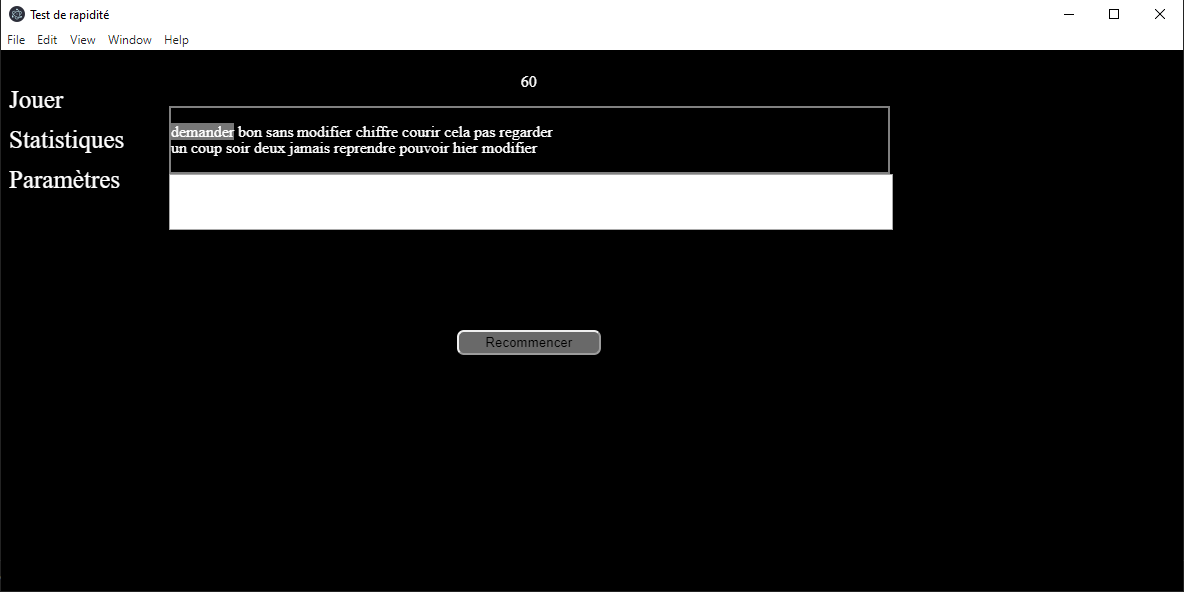
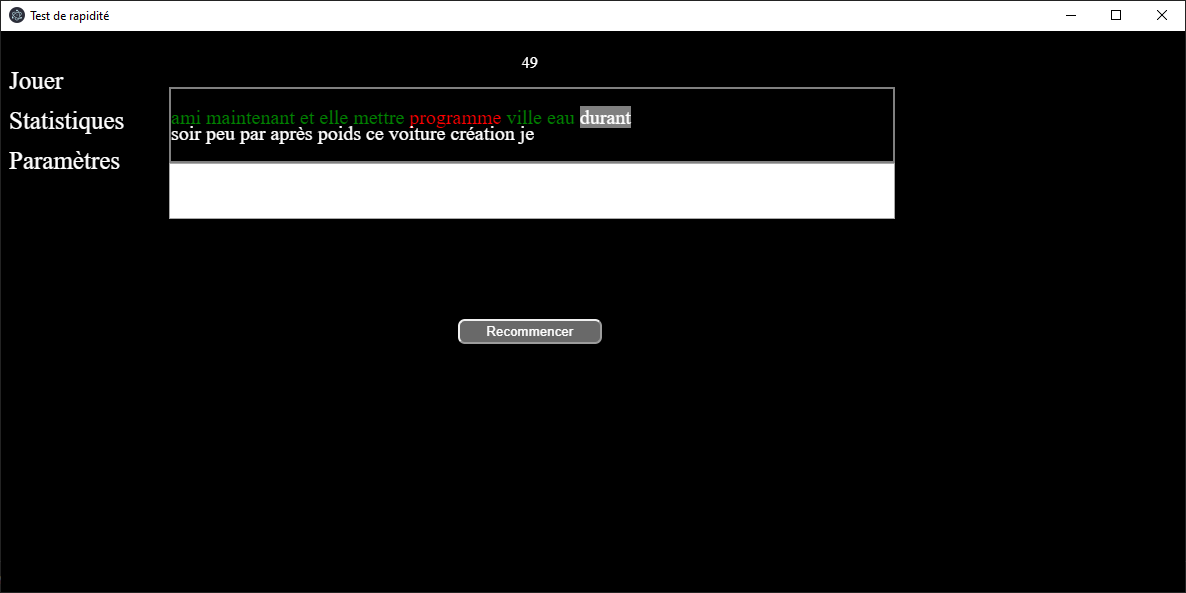
modification du code

Changed region(s): [[0.0, 0.0, 1.0, 1.0], [0.1248, 0.3642, 0.7487, 0.3946], [0.3744, 0.516, 0.5304, 0.6071]]

diff --git a/js/stats.js b/js/stats.js
@@ -28,7 +28,7 @@ if (fs.existsSync(dir)) {
                 var donnees = data.trim();
                 result = donnees.split('\n');
 
-                // revue de code necessaire
+                // à revoir 
                 for (i=0; i < result.length; i++) {
                     if (i == result.length-1) {
                         date += result[i].split(',')[0];
@@ -38,6 +38,7 @@ if (fs.existsSync(dir)) {
                     }
                 }
                 
+                // a revoir
                 for (j=0; j < result.length; j++) {
                     if (j == result.length -1) {
                         monMpm += result[j].split(',')[1];
@@ -55,24 +56,17 @@ if (fs.existsSync(dir)) {
             }
         });
     }
-    else {
-        alert('aucun fichier trouvé'); // a supprimer  (test)
-    }
-}
-else {
-    alert('aucun dossier typingtest trouvé'); // a supprimer (test)
 }
 
-//console.log(localStorage.getItem("monLabel"));
-var montest = localStorage.getItem("monLabel");
+var courbeLabels = localStorage.getItem("monLabel");
 
 var timeFormat = 'DD/MM/YYYY HH:mm';
 
-var testSplit = montest.split(',');
+var mesLabels = courbeLabels.split(',');
 
-var blabla = localStorage.getItem('mesDatas');
+var courbeDatas = localStorage.getItem('mesDatas');
 
-var testSplitMpm = blabla.split(',');
+var mesDatas = courbeDatas.split(',');
 
 
 // affichage de la courbe
@@ -82,8 +76,8 @@ var config = {
         labels: [],
         datasets: [{
             label: 'MPM',
-            backgroundColor: 'rgb(255,99,132)',
-            borderColor: 'rgb(255, 99, 132)',
+            backgroundColor: 'rgb(0, 102, 255)',
+            borderColor: 'rgb(0, 102, 255)',
             fill: false,
             data: [],
         }]
@@ -133,13 +127,14 @@ var config = {
 var ctx = document.getElementById('myChart').getContext('2d');
 var myLineChart = new Chart(ctx, config);
 
-for (i=0; i < testSplit.length; i++) {
-    config.data.labels.push(testSplit[i]);
+// ajout des labels
+for (i=0; i < mesLabels.length; i++) {
+    config.data.labels.push(mesLabels[i]);
 }
 myLineChart.update();
 
-// ajouter un mpm
-for (j=0; j < testSplitMpm.length; j++) {
-    config.data.datasets[0].data.push(testSplitMpm[j]);
+// ajout des mpm
+for (j=0; j < mesDatas.length; j++) {
+    config.data.datasets[0].data.push(mesDatas[j]);
 }
 myLineChart.update();

diff --git a/css/style.css b/css/style.css
@@ -16,7 +16,6 @@
 }
 
 body {
-    /*background-color: black;*/
     background-color: var(--couleur-back);
 }
 
@@ -27,7 +26,6 @@ body {
     z-index: 1;
     top: 0;
     left: 0;
-    /*background-color: black;*/
     background-color: var(--couleur-back);
     overflow: hidden;
     padding-top: 30px;
@@ -37,7 +35,6 @@ body {
     padding: 6px 8px 6px 8px;
     text-decoration: none;
     font-size: 25px;
-    /*color: white;*/
     color: var(--couleur-front);
     display: block;
 }
@@ -57,8 +54,11 @@ body {
     line-height: 100%;
 }
 
+#mot {
+    font-size: 20px;
+}
+
 .texte {
-    /*color: white;*/
     color: var(--font-couleur);
 }
 
@@ -66,32 +66,26 @@ body {
     text-align: center;
 }
 
-#mot {
-    /* text-align: center;*/
-    /*height: 150px;*/
-    /*margin-top: 100px;*/
-}
-
 #maSaisie {
     width: 100%;
     height: 50px;
-    font-size: 20px; 
+    font-size: 25px;
     outline-color: blue !important;
 }
 
 
 .resultat {
-    /* color: white; */
     color: var(--font-couleur);
     text-align: center;
     display: none;
 }
 
 .vue {
+    width: 100%;
     border: 2px;
     border-style: solid;
     border-color: gray;
-    /*border-radius: 50px;*/
+    /* border-radius: 7px; */
 }
 
 .correct {
@@ -108,16 +102,10 @@ body {
 }
 
 .neutre {
-    /* color: white; */
     color: var(--couleur-mot-neutre);
 }
 
-button {
-    
-}
-
 .bouton {
-    /* color: black; */
     width: 20%;
     height: 25px;
     margin-left: 40%;
@@ -134,4 +122,5 @@ button {
 
 .millieu {
     text-align: center;
+    font-size: large;
 }

diff --git a/js/param.js b/js/param.js
@@ -12,7 +12,6 @@ let os = require('os');
     }
 })();
 
-
 /**
  * function permettant de changer de thème
  */
@@ -28,20 +27,10 @@ function changeTheme() {
         localStorage.setItem("theme", "theme-noir");
         document.documentElement.className = "theme-noir";
     }
-
-/*
-    if (localStorage.getItem('theme') === 'theme-blanc') {
-        localStorage.setItem("theme", "theme-noir");
-        document.documentElement.className = "theme-noir";
-    }
-    else {
-        localStorage.setItem("theme", "theme-blanc");
-        document.documentElement.className = "theme-blanc";
-    }*/
 }
 
 /**
- * function permettant de reset les stats enregistrées 
+ * function permettant de reset les stats enregistrées
  */
 function clearStat() {
     if(confirm("voulez-vous vraiment remettre à zéro vos statistiques ?")) {
@@ -52,6 +41,7 @@ function clearStat() {
             if (fs.existsSync(filename)) {
                 fs.unlinkSync(filename);
                 localStorage.removeItem("monLabel");
+                localStorage.removeItem("mesDatas");
             }
         }
     }

diff --git a/js/typing.js b/js/typing.js
@@ -251,6 +251,7 @@ function recommencer() {
   motIncorrect = 0;
   shuffleWord();
   document.getElementById("mot").children[cptMotActuel].classList.add("fond");
+  document.getElementById("maSaisie").style.display = 'block';
   document.getElementById("maSaisie").focus();
 }
 
@@ -264,14 +265,9 @@ function myTimer() {
     tps = setTimeout(myTimer, 1000);
   }
   else {
-    // fenetre modal
-    alert ('Partie terminé avec ' + motCorrect + ' mots corrects');
     clearTimeout(tps);
     affichageResultat();
-    // clear la saisie 
-    // relancer le timer 
-    // seconde = 60;
-    // ShuffleWord();
+    document.getElementById("maSaisie").style.display = 'none';
   }
 }
 

diff --git a/Param.html b/Param.html
@@ -17,7 +17,6 @@
       <div class="param">
         <p class="millieu texte">Mes Paramètres : </p>
         <p class="texte">Theme blanc : </p> 
-        <!-- <button id="theme" type="button" onclick="changeTheme()"></button> -->
         <input id="theme" type="checkbox" onclick="changeTheme()" />
 
         <p class="texte">Reset les statistiques : </p>

diff --git a/main.js b/main.js
@@ -16,7 +16,7 @@ function createWindow () {
 
   // and load the index.html of the app.
   win.loadFile('index.html')
- // win.setMenu(null)
+  win.setMenu(null)
 
   // Ouvre les DevTools.
   //win.webContents.openDevTools()
